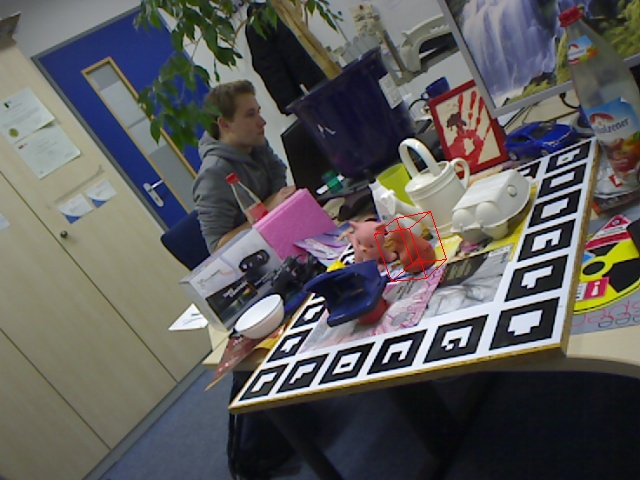
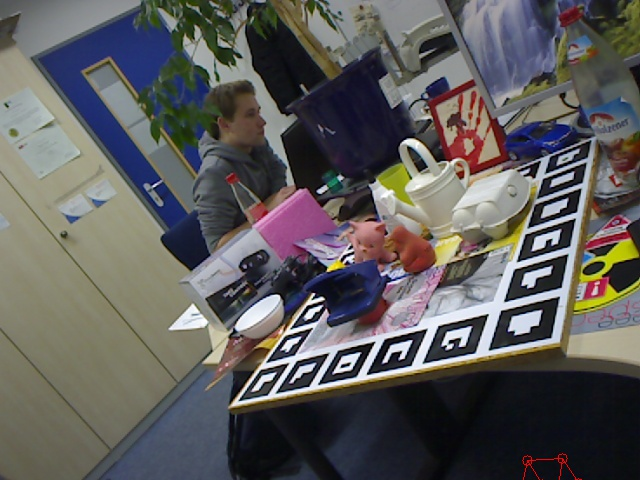
visulization added

Changed region(s): [[0.5625, 0.4375, 0.7188, 0.5938], [0.8125, 0.9375, 0.9062, 1.0]]

diff --git a/util_Projection.py b/util_Projection.py
@@ -9,8 +9,9 @@
 
 import numpy as np
 import cv2
+from plyfile import PlyData, PlyElement
 
-def project_3d_on_2d(obj="ape",id=0,points=np.ones((3,3))):
+def project_3d_on_2d(obj="ape",id=0,points=None):
 	root = "../linemod/"+obj	
 	#0.read transformation matrix
 	Transformation = []
@@ -22,6 +23,14 @@ def project_3d_on_2d(obj="ape",id=0,points=np.ones((3,3))):
 	Transformation = np.array(Transformation,dtype=np.float64).reshape(3,4)
 
 	#1.read points
+	if points is None:
+		#read the points in OLDmesh.py
+		plydata = PlyData.read(root+"/OLDmesh.ply")
+		#1.2save the point cloud data into a n*3 matrix
+		nx = np.expand_dims(plydata['vertex']['x'],0) 
+		ny = np.expand_dims(plydata['vertex']['y'],0) 
+		nz = np.expand_dims(plydata['vertex']['z'],0)
+		points = np.vstack((nx,ny,nz)) / 10.0
 	points = np.dot(Transformation[:,:-1],points)
 	points = points + Transformation[:,-1:]*100
 	#2.read R,T matrix
@@ -62,7 +71,7 @@ if __name__ == '__main__':
 	# Transformation = np.vstack((Transformation,np.array([[0.,0.,0.,1.]])))
 
 	#1.read a ply file
-	from plyfile import PlyData, PlyElement
+
 
 	plydata = PlyData.read("OLDmesh.ply")
 

diff --git a/model_network.py b/model_network.py
@@ -1,0 +1,31 @@
+"""
+ResNet; applied to extract feature from RGB image
+Pointcloud: applied to extract feature from Point cloud
+"""
+
+
+import cv2
+import torch
+import torch.nn as nn
+import torchvision.models as models
+from torch.autograd import Variable
+
+class RGBNet(nn.Module):
+	def __init__(self):
+		super(RGBNet, self).__init__()
+		resnet101 = models.resnet101(pretrained=True)
+		modules=list(resnet101.children())[:-1]
+		self.model=nn.Sequential(*modules)
+		self.model.cuda()
+	def forward(self, image, mesh):
+		image_feature = self.model(image)
+		return image_feature
+
+
+if __name__ == '__main__':
+	rgbNet = RGBNet()
+	img = cv2.imread("test.jpg")
+	img = torch.from_numpy(img).float().cuda()
+	data = torch.randn(1,3,640,480).cuda()
+	x = rgbNet(data,None)
+	print x.shape

diff --git a/model_evaluation.py b/model_evaluation.py
@@ -1,0 +1,29 @@
+"""
+Evaluation metric
+1.2d projection
+	compute the mean distance between the 2d gt and project, if less than < 5, consider it as a successful one
+2.ADD
+"""
+
+import numpy as np
+import math
+
+#a,b (2,)
+def ec_dis(a,b):
+	return math.sqrt((a[0]-b[0])**2 + (a[1]-b[1])**2)
+
+#prediction: B*N*2 gth:B*N*2
+def evaluate_projection(predicton,gth):
+	batchsize = predicton.shape[0]
+	num_of_points = predicton.shape[1]
+	positive = 0
+	for b in range(B):
+		totaldistance = sum([ec_dis(predicton[b][i],gth[b][i]) for i in range(num_of_points)])
+		meandistance = totaldistance / num_of_points
+		if meandistance<=5.0:
+			positive += 1
+
+	return positive, 1.0*positive/batchsize
+
+
+

diff --git a/util_Visulization.py b/util_Visulization.py
@@ -69,4 +69,4 @@ def draw_gth_RGB(obj="ape",id=0):
 
 
 if __name__ == '__main__':
-	draw_gth_RGB("ape", 1008)
+	draw_gth_RGB("ape", 1)
